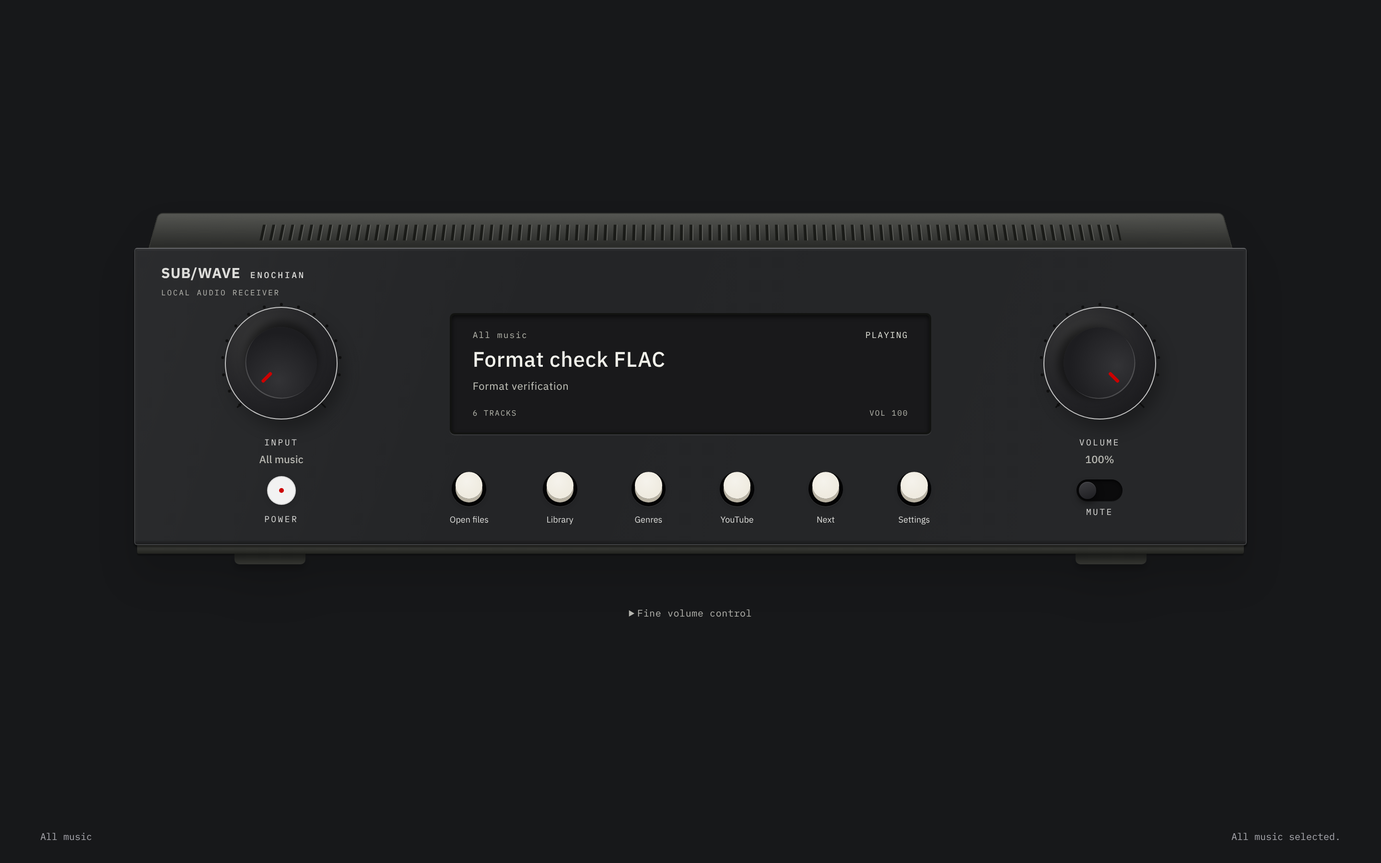
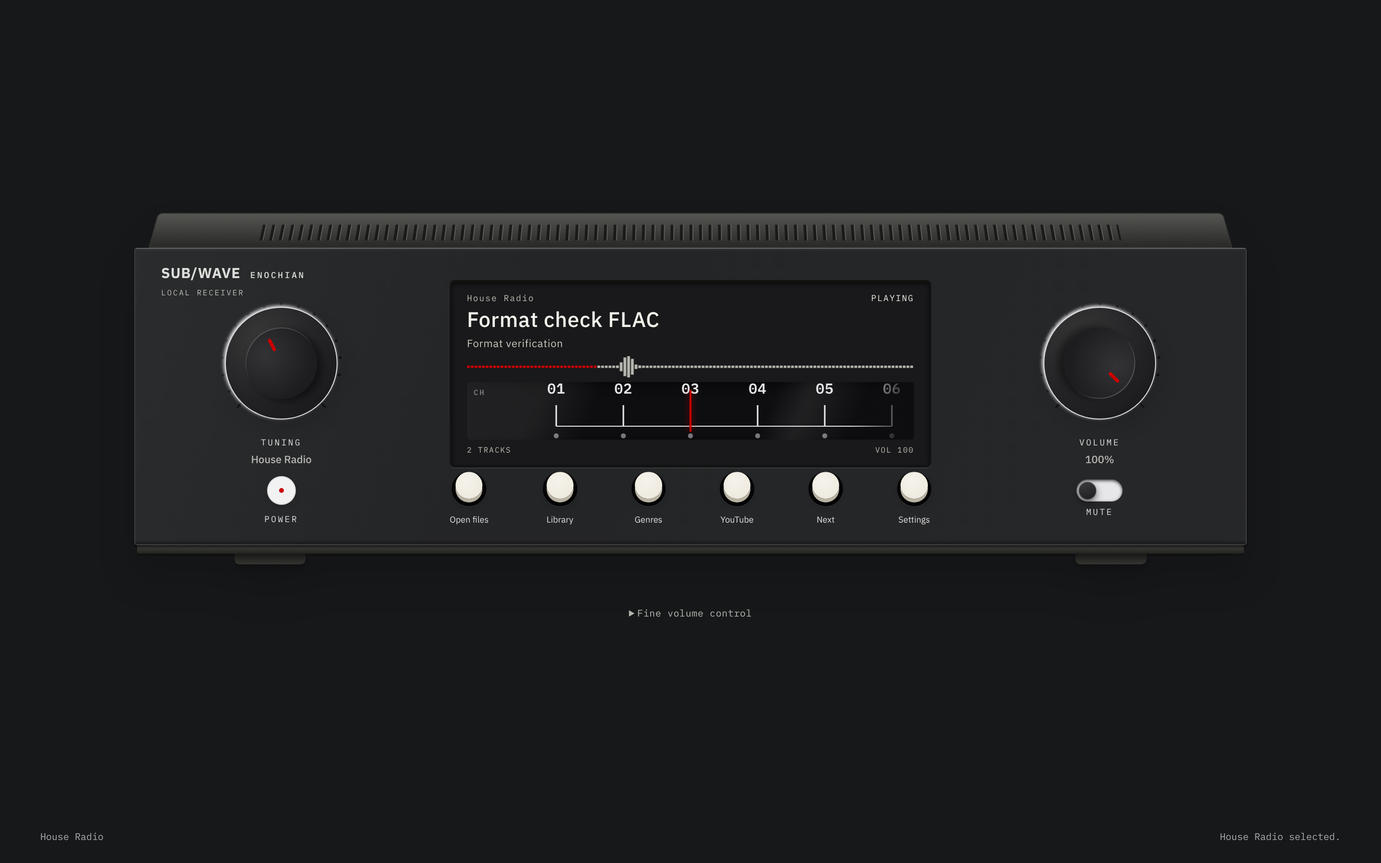
Add authored channel tuning and receiver visualization
Use the Enochian Aperture Scale for real local genre and playlist selection, with release-to-tune, glide, cancellation and keyboard seeking. Mount Original's existing spectrum analyser/painter inside the receiver screen while retaining one audio element across skins. Package Linux 1.3.1 and update the owner manual, source mapping and screenshots.

diff --git a/web/components/skins/enochian/DesktopReceiver.module.css b/web/components/skins/enochian/DesktopReceiver.module.css
@@ -21,13 +21,14 @@
 .dialLabel > span,.power > span,.mute > span { font:9px "IBM Plex Mono",monospace; letter-spacing:1.7px; }
 .dialLabel strong { font:500 11px "IBM Plex Sans",sans-serif; overflow:hidden; text-overflow:ellipsis; white-space:nowrap; max-width:180px; color:var(--quiet); }
 .screen { grid-column:2; grid-row:1; min-width:0; width:82%; justify-self:center; padding:0 0 15px; }
-.screen :global(.mk-display) { min-height:124px; margin:0; padding:15px 22px; border-radius:5px; border:2px solid #121311; background:#19191b; box-shadow:inset 0 2px 5px #0009,0 1px 0 #fff; display:flex; flex-direction:column; justify-content:center; gap:7px; white-space:normal; }
+.screen :global(.mk-display) { min-height:180px; margin:0; padding:11px 16px; border-radius:5px; border:2px solid #121311; background:#19191b; box-shadow:inset 0 2px 5px #0009,0 1px 0 #fff; display:flex; flex-direction:column; justify-content:center; gap:4px; white-space:normal; }
 .displayTop,.displayBottom { display:flex; justify-content:space-between; gap:18px; font:9px "IBM Plex Mono",monospace; letter-spacing:1px; color:#b7b8ae; line-height:1.3; }
 .displayTop > span:first-child { overflow:hidden; text-overflow:ellipsis; white-space:nowrap; }
 .displayTop > span:last-child { flex-shrink:0; color:#e1e2d9; }
 .trackTitle { display:block; font:500 clamp(16px,1.6vw,22px)/1.2 "IBM Plex Sans",sans-serif; color:#f2f2eb; white-space:nowrap; overflow:hidden; text-overflow:ellipsis; }
 .artist { display:block; font:11px/1.4 "IBM Plex Sans",sans-serif; color:#c5c6bd; white-space:nowrap; overflow:hidden; text-overflow:ellipsis; }
-.displayBottom { margin-top:8px; font-size:8px; }
+.displayBottom { margin-top:2px; font-size:8px; }
+.spectrum { --color-ink:#b7b8ae; --color-vermilion:var(--accent); width:100%; height:24px; flex-shrink:0; pointer-events:none; }
 .power,.mute { display:flex; flex-direction:column; align-items:center; justify-content:center; gap:5px; min-width:0; }
 .power { grid-column:1;grid-row:2; }.mute { grid-column:3;grid-row:2; }
 /* The atlas power head is mounted without its demo readout or separate case. */
@@ -56,16 +57,16 @@
 .room[data-enochian-receiver="obsidian"] .faceplate { border-top-color:#646568; box-shadow:inset 0 0 0 2px #ffffff08,inset 0 -2px 2px #0008,0 2px 2px #0009; background:linear-gradient(110deg,#ffffff08,transparent 35%,#ffffff03),var(--face); }
 .room[data-enochian-receiver="obsidian"] .screen :global(.mk-display) { box-shadow:inset 0 2px 5px #0009,0 1px 0 #ffffff18; }
 @media(max-width:950px) {
-  .room { padding:48px 24px 80px; }.faceplate { height:280px; grid-template-columns:20% minmax(0,1fr) 20%; padding:48px 20px 14px; }
+  .room { padding:48px 24px 80px; }.faceplate { height:310px; grid-template-columns:20% minmax(0,1fr) 20%; padding:48px 20px 14px; }
   .dialMount { width:110px; height:110px; }.dialMount :global(.dial) { zoom:.5; }
-  .screen { width:94%; padding:0 0 5px; }.functionKeys { width:94%; }.screen :global(.mk-display) { padding:12px 14px; }.displayTop { font-size:8px; letter-spacing:.3px; gap:8px; }
+  .screen { width:94%; padding:0 0 5px; }.functionKeys { width:94%; }.screen :global(.mk-display) { padding:10px 12px; }.displayTop { font-size:8px; letter-spacing:.3px; gap:8px; }
   .functionKeys :global(.ilk-col) { gap:5px; }.functionKeys :global(.ilk-lbl) { font-size:8px; }.functionKeys :global(.ilk-sock) { zoom:.72; }
   .identity small { font-size:7px; }.identity strong { font-size:13px; }.identity span { font-size:8px; }
 }
 @media(max-width:700px) {
-  .room { padding:35px 14px 70px; }.faceplate { height:300px; padding:60px 14px 16px; grid-template-columns:100px minmax(0,1fr) 100px; grid-template-rows:140px 1fr; }
+  .room { padding:35px 14px 70px; }.faceplate { height:330px; padding:55px 14px 16px; grid-template-columns:100px minmax(0,1fr) 100px; grid-template-rows:175px 1fr; }
   .dialMount { width:88px; height:88px; }.dialMount :global(.dial) { zoom:.4; }
-  .screen { width:100%; padding:0 8px 8px; }.screen :global(.mk-display) { min-height:115px; padding:11px; gap:6px; }.artist { font-size:10px; }
+  .screen { width:100%; padding:0 8px 8px; }.screen :global(.mk-display) { min-height:170px; padding:9px; gap:3px; }.artist { font-size:10px; }
   .identity { left:20px; }.cabinet { height:27px; }.trackTitle { font-size:16px; }.displayTop,.displayBottom { font-size:7px; letter-spacing:0; }.displayTop { flex-direction:column; gap:4px; }
   .functionKeys { grid-column:1 / -1; grid-row:2; width:100%; padding:0 52px; align-self:end; }.functionKeys :global(.ilk-col) { gap:8px; }
   .power,.mute { grid-row:2; align-self:start; }.power { justify-self:start; }.mute { justify-self:end; }

diff --git a/web/components/skins/enochian/DesktopReceiver.tsx b/web/components/skins/enochian/DesktopReceiver.tsx
@@ -3,6 +3,9 @@
 // The JBL reference defines the enclosure and hierarchy, not replacement
 // controls. All tactile parts below are the user's actual atlas adapters.
 import { useLayoutEffect, useState } from 'react';
+import { usePlayerAudio, usePlayerFeed } from '@/components/player/PlayerCore';
+import Waveform from '../classic/Waveform';
+import SourceTuner from './SourceTuner';
 import type { DesktopSurfaceContext } from '@/components/desktop/DesktopContext';
 import VolumeDial from './VolumeDial';
 import { SourceDisplay, SourceMute, SourceSlider, type Finish } from './SourceControls';
@@ -17,6 +20,8 @@ type Props = {
 };
 
 export default function DesktopReceiver({ desktop, finish, title, artist, tunedIn, phaseLabel, volume, muted, onPower, onVolume, onMute, feedback }: Props) {
+  const { audioRef } = usePlayerAudio();
+  const { trackStartedAt, nowPlaying } = usePlayerFeed();
   const library = desktop.library.data;
   const sources = [...(library?.stations || []), ...(library?.playlists || [])];
   const selectedIndex = Math.max(0, sources.findIndex(source => source.id === library?.selected));
@@ -36,17 +41,20 @@ export default function DesktopReceiver({ desktop, finish, title, artist, tunedI
     <div className={styles.receiver} aria-label="Enochian audio receiver">
       <div className={styles.cabinet} aria-hidden="true"><div className={styles.vents} /></div>
       <div className={styles.faceplate}>
-        <header className={styles.identity}><strong>SUB/WAVE</strong><span>ENOCHIAN</span><small>LOCAL AUDIO RECEIVER</small></header>
+        <header className={styles.identity}><strong>SUB/WAVE</strong><span>ENOCHIAN</span><small>LOCAL RECEIVER</small></header>
         <section className={styles.input} aria-label="Input source">
           <div className={styles.dialMount}><VolumeDial label="Input source knob" value={input} steps={Math.max(2, sources.length)} valueText={value => sourceAt(value)?.name || 'Opening library'} onChange={setInput} onCommit={selectInput} disabled={desktop.busy || sources.length < 2} finish={finish} /></div>
-          <div className={styles.dialLabel}><span>INPUT</span><strong title={sourceAt(input)?.name}>{sourceAt(input)?.name || 'Opening library'}</strong></div>
+          <div className={styles.dialLabel}><span>TUNING</span><strong title={sourceAt(input)?.name}>{sourceAt(input)?.name || 'Opening library'}</strong></div>
         </section>
         <section className={styles.screen} aria-label="Now playing">
           <SourceDisplay>
             <span className={styles.displayTop}><span>{selected?.name || 'LOCAL MUSIC'}</span><span role="status">{phaseLabel}</span></span>
             <strong className={styles.trackTitle} title={title || undefined}>{title || (empty ? 'No tracks in this source' : 'Ready to play')}</strong>
             <span className={styles.artist} title={artist || undefined}>{artist || (empty ? 'Open files or find music on YouTube' : 'Press power to listen')}</span>
-            <span className={styles.displayBottom}><span>{library?.tracks.length ?? 0} TRACKS</span><span>{muted ? 'MUTED' : `VOL ${Math.round(volume * 100)}`}</span></span>
+            <Waveform audioRef={audioRef} tunedIn={tunedIn} trackStartedAt={trackStartedAt} duration={nowPlaying?.duration || 0} presentation="receiver" className={styles.spectrum} />
+            <SourceTuner channels={sources} value={Math.round(input * max)} disabled={desktop.busy || sources.length < 2}
+              onPreview={index => setInput(index / max)} onCommit={index => { feedback('thock'); selectInput(index / max); }} />
+            <span className={styles.displayBottom}><span>{library?.tracks.length ?? 0} {library?.tracks.length === 1 ? 'TRACK' : 'TRACKS'}</span><span>{muted ? 'MUTED' : `VOL ${Math.round(volume * 100)}`}</span></span>
           </SourceDisplay>
         </section>
         <section className={styles.volume} aria-label="Volume controls">

diff --git a/web/components/skins/enochian/SourceTuner.tsx b/web/components/skins/enochian/SourceTuner.tsx
@@ -1,0 +1,46 @@
+'use client';
+
+import { useLayoutEffect, useRef } from 'react';
+import { useSkinCalm } from '../sharedHooks';
+import { atlas as a } from './vendor/classes';
+import { CHANNEL_MARGIN, CHANNEL_PITCH, driveTuner } from './vendor/tuner-interaction';
+import type { ValueControl } from './vendor/interaction';
+import styles from './SourceTuner.module.css';
+
+type Channel = { id: string; name: string };
+export default function SourceTuner({ channels, value, disabled, onPreview, onCommit }: {
+  channels: Channel[]; value: number; disabled?: boolean; onPreview: (index: number) => void; onCommit: (index: number) => void;
+}) {
+  const root = useRef<HTMLDivElement>(null), strip = useRef<HTMLDivElement>(null), control = useRef<ValueControl | null>(null);
+  const current = useRef({ value, channels, onPreview, onCommit });
+  const calm = useSkinCalm();
+  const count = channels.length;
+  useLayoutEffect(() => { current.current = { value, channels, onPreview, onCommit }; }, [value, channels, onPreview, onCommit]);
+  useLayoutEffect(() => {
+    const c = driveTuner(root.current!, strip.current!, current.current.value, count,
+      index => current.current.onPreview(index), index => current.current.onCommit(index),
+      index => `Channel ${index + 1}, ${current.current.channels[index]?.name || 'No station'}`, calm);
+    control.current = c;
+    return () => { c.destroy(); control.current = null; };
+  }, [count, calm]);
+  useLayoutEffect(() => { control.current?.set(value); }, [value, calm]);
+  const width = Math.max(1, count - 1) * CHANNEL_PITCH + CHANNEL_MARGIN * 2;
+  return <div className={styles.mount}><div className={a.instruments}>
+    <div className={a.tuner} data-finish="obsidian" data-enochian-component="radio-tuner">
+      <div ref={root} className={a.tunerWindow} role="slider" tabIndex={disabled ? -1 : 0} aria-disabled={disabled || undefined}
+        title="Drag left/right to tune · Arrow keys: one channel · Page Up/Down: seek · Home/End: first/last" aria-label="Radio channel tuning" aria-valuemin={1} aria-valuemax={Math.max(1, count)} aria-valuenow={Math.round(value) + 1}
+        aria-valuetext={`Channel ${Math.round(value) + 1}, ${channels[Math.round(value)]?.name || 'No station'}`}>
+        <div ref={strip} className={a.tunerStrip}><svg width={width} height={128} viewBox={`0 0 ${width} 128`} aria-hidden="true">
+          <line x1={CHANNEL_MARGIN} y1={98} x2={CHANNEL_MARGIN + Math.max(0, count - 1) * CHANNEL_PITCH} y2={98} className={a.tunerTick} strokeWidth={1} />
+          {channels.map((channel, index) => {
+            const x = CHANNEL_MARGIN + index * CHANNEL_PITCH;
+            return <g key={channel.id}><line x1={x} y1={76} x2={x} y2={98} className={a.tunerTick} strokeWidth={1.6} />
+              <text x={x} y={64} textAnchor="middle" className={a.tunerNumber}>{String(index + 1).padStart(2, '0')}</text>
+              <circle cx={x} cy={108} r={2.6} className={a.tunerStation} /></g>;
+          })}
+        </svg></div>
+        <div className={a.tunerFade} /><div className={a.tunerGlass} /><span className={a.tunerBand}>CH</span><div className={a.tunerNeedle} />
+      </div>
+    </div>
+  </div></div>;
+}

diff --git a/web/components/skins/classic/Waveform.tsx b/web/components/skins/classic/Waveform.tsx
@@ -76,6 +76,9 @@ function buildBinRanges(binCount: number, sampleRate: number): Array<[number, nu
 
 export interface WaveformProps {
   audioRef: RefObject<HTMLAudioElement | null>;
+  /** Receiver screen reuses this exact analyser/painter in a compact mount. */
+  presentation?: 'classic' | 'receiver';
+  className?: string;
   tunedIn: boolean;
   /** Epoch ms when the current track started (from useStationFeed). */
   trackStartedAt: number | null;
@@ -85,7 +88,7 @@ export interface WaveformProps {
 
 // One canvas paint per frame rather than 120 styled spans: ~0.25 ms/frame
 // against ~2.8 ms, which is what lets the strip run on Pi-class devices.
-export default memo(function Waveform({ audioRef, tunedIn, trackStartedAt, duration }: WaveformProps) {
+export default memo(function Waveform({ audioRef, tunedIn, trackStartedAt, duration, presentation = 'classic', className }: WaveformProps) {
   const { ready, read, sampleRate } = useAnalyser(audioRef, tunedIn);
   const canvasRef = useRef<HTMLCanvasElement | null>(null);
   const levelsRef = useRef<Float32Array>(new Float32Array(BARS));
@@ -272,11 +275,12 @@ export default memo(function Waveform({ audioRef, tunedIn, trackStartedAt, durat
 
   return (
     <div
-      data-local-waveform={DESKTOP_EDITION ? true : undefined}
+      data-local-waveform={DESKTOP_EDITION && presentation === 'classic' ? true : undefined}
+      data-receiver-waveform={presentation === 'receiver' ? true : undefined}
       // The band's vertical shape is gated on viewport HEIGHT as well as width
       // (#576). The two wide variants use mutually exclusive height queries so
       // neither depends on class order to win.
-      className="pointer-events-none absolute inset-x-3 bottom-24 h-[110px] px-1 opacity-[0.34] sm:right-24 sm:left-0 sm:px-8 dark:opacity-[0.45] [@media(min-width:640px)_and_(max-height:759px)]:bottom-32 [@media(min-width:640px)_and_(max-height:759px)]:h-20 [@media(min-width:640px)_and_(min-height:760px)]:bottom-[128px] [@media(min-width:640px)_and_(min-height:760px)]:h-40"
+      className={presentation === 'receiver' ? className : "pointer-events-none absolute inset-x-3 bottom-24 h-[110px] px-1 opacity-[0.34] sm:right-24 sm:left-0 sm:px-8 dark:opacity-[0.45] [@media(min-width:640px)_and_(max-height:759px)]:bottom-32 [@media(min-width:640px)_and_(max-height:759px)]:h-20 [@media(min-width:640px)_and_(min-height:760px)]:bottom-[128px] [@media(min-width:640px)_and_(min-height:760px)]:h-40"}
       aria-hidden="true"
     >
       <canvas ref={canvasRef} className="h-full w-full" />

diff --git a/web/components/skins/enochian/SourceTuner.module.css b/web/components/skins/enochian/SourceTuner.module.css
@@ -1,0 +1,11 @@
+/* Original Aperture Scale parts/materials. The screen mount crops unused space
+   above the printed scale; tick lengths, type and the fixed needle stay intact. */
+.mount { min-width:0; width:100%; }
+.mount :global(.source) { display:contents; }
+.mount :global(.ap) { width:100%; gap:0; }
+.mount :global(.ap-window) { height:60px; border-radius:3px; box-shadow:inset 0 3px 10px #0008; }
+.mount :global(.ap-strip) { top:-52px; }
+.mount :global(.ap-strip svg) { height:128px; max-width:none; }
+.mount :global(.ap-band) { top:6px; left:7px; font-size:8px; }
+.mount :global(.ap-window:focus-visible) { outline-offset:2px; }
+.mount :global([aria-disabled="true"]) { opacity:.5; cursor:default; }

diff --git a/owners_manual.md b/owners_manual.md
@@ -1,6 +1,6 @@
 # Subwave owner’s manual
 
-**Linux desktop edition · version 1.3.0 · Original + Enochian**
+**Linux desktop edition · version 1.3.1 · Original + Enochian**
 
 Subwave plays music saved on your computer. It also searches YouTube, downloads MP3s and organizes them into separate genre radio stations. Your local station starts with the app. You do not need an admin login or a separately configured server.
 
@@ -55,7 +55,7 @@ Original uses a top toolbar. Enochian puts the same actions on six small front-p
 
 **Player** opens the same areas and provides playback commands. **Skin** selects Original or Enochian. **View** controls zoom and fullscreen. **Help** opens your music folder, desktop log and version information.
 
-The selected playback collection appears in the status bar and, in Enochian, beside the **INPUT** knob and on the receiver display. Turn the left knob by dragging vertically; the source changes when you release it. With the knob focused, arrow keys select the next/previous station or playlist, Home selects the first and End selects the last. Empty collections stay selectable so you can add music to them. Choosing an **import destination** controls where files are added; it does not switch what is playing.
+The selected playback collection appears in the status bar and, in Enochian, beside the **TUNING** knob and on the receiver display. Turn the left knob by dragging vertically; the source changes when you release it. With the knob focused, arrow keys select the next/previous station or playlist, Home selects the first and End selects the last. Empty collections stay selectable so you can add music to them. Choosing an **import destination** controls where files are added; it does not switch what is playing.
 
 ## Open and find local files
 
@@ -92,6 +92,16 @@ The desktop uses a continuous local radio stream. It does not expose a seek/scru
 In Enochian, drag the right **VOLUME** knob up/down. Open **Fine volume control** below the receiver to reveal the original ribbed slider. Both control the same gain. Focus the knob and use arrows for 2% steps; the slider offers 1% arrow steps and 10% Page Up/Down steps. Home/End select minimum/maximum. The mute switch silences output. In Original, use its volume control. **Ctrl+M** toggles mute in either skin. Skin changes preserve the intended volume and mute state.
 
 The display reports the current song and playback state. Empty stations explain how to add music. Brief connection and metadata delays can occur when joining or changing the local MP3 stream.
+
+### Tune channels and read the receiver display
+
+Enochian's left **TUNING** knob and the sliding channel scale inside its screen select the same genre stations and playlists. The channel number describes its position in your current collection list.
+
+Drag the scale left/right; the printed scale moves behind the fixed red needle. Release to settle on a channel. A quick fling glides into a channel stop. Drag cancellation leaves the selected source unchanged. With the scale focused, arrows move one channel, Shift+arrows move five, Home/End reach the first/last, and Page Up/Down seek with wrapping at the ends. The tuner updates when you select a station or playlist elsewhere, including through an agent.
+
+Tuning while listening switches to that collection and keeps music playing when it contains tracks. Tuning while stopped keeps playback stopped. An empty channel shows **NO TRACKS** and power opens Library so you can add music.
+
+The center screen also contains the **same spectrum visualization as Original**, driven by the current audio. The trace rests when playback stops. Reduced motion and Lite mode hold a resting trace while playback continues. Changing skins retains the same audio element and analyser, so visualization does not restart the song.
 
 ## Create and manage playlists
 
@@ -177,7 +187,7 @@ Requesting the same video reuses its download record. Failed items offer **Retry
 
 ## Appearance and window controls
 
-Choose **Skin → Original** or **Skin → Enochian**, or use **Settings → Player skin**. Original offers Light/Dark palettes; Enochian offers Ivory/Obsidian finishes. Use **Settings → Color palette** to select a finish. The appearance control beside the skin name also offers appearance options and **Lite mode**.
+Choose **Skin → Original** or **Skin → Enochian**, or use **Settings → Player skin**. Original offers Light/Dark palettes; Enochian offers Ivory/Obsidian finishes. Use **Settings → Color palette** to select a finish. Original’s appearance control beside the skin name also offers **Lite mode**, which applies across skins.
 
 Changing skins preserves the shared player and music organization. Appearance and window size are saved. Lite mode reduces optional effects; controls also honor the system’s reduced-motion preference.
 
@@ -204,7 +214,7 @@ Shortcuts apply while Subwave is the active application.
 | Close local panel | Esc |
 | Quit | Ctrl+Q |
 
-Use **Tab / Shift+Tab** to move between controls, **Enter** to submit forms and **Space** to activate focused buttons/switches. In the genre selector, arrows move between exclusive choices and **Home / End** choose first/last. Focus the Enochian knob or slider to use arrows for volume; **Home / End** set minimum/maximum. The slider also supports **Page Up / Page Down** for larger steps.
+Use **Tab / Shift+Tab** to move between controls, **Enter** to submit forms and **Space** to activate focused buttons/switches. In the genre selector, arrows move between exclusive choices and **Home / End** choose first/last. Focus Enochian’s **VOLUME** knob or fine-volume slider to use arrows for volume; **Home / End** set minimum/maximum. The slider also supports **Page Up / Page Down** for larger steps.
 
 ## Let Aya or Hermes control Subwave
 

diff --git a/docs/enochian-design.md b/docs/enochian-design.md
@@ -22,6 +22,7 @@ The supplied hero cards inform two separate frozen [receiver rubrics](design/eno
 | Atlas component | Station use | Preserved source |
 | --- | --- | --- |
 | Rotary Knob 01 (`#darkDial`) | Left input and right volume in the Linux receiver; hosted volume | 220px dial, original dot/end ticks, base, cap and dash; ±135° rotation, 150px drag travel, 2% arrow increments |
+| Radio Tuner (`#ap`) | Tune actual local genre/playlist channels inside the receiver display | Original tick lengths/type, sliding strip, glass/fades, fixed needle, SNAP spring and 3.2/s glide friction; actual collection stops replace demo frequencies |
 | Slider 01 (`#trk`) | Same volume | 280px track, 66×34px thumb and five ribs; original spring, grab offset, 1% arrows and 10% Page keys |
 | Keyboard display (`#keyboardDisplay`) | Live title and artist | Original inset surface; compact aperture and text hierarchy adapt for the receiver |
 | Radio Player power head (`#radio .rhead`) | Tune in/out and connection status | Original 30px white power ring and 5px state dot; local mount removes demo readout and adapts hit area |
@@ -87,3 +88,15 @@ geometry and the adapted spring's settling/cleanup. Browser checks compare
 computed gradients, shadows, dimensions, borders, padding and typography against
 the live source, then exercise the linked volume controls, mute, power and
 drawers at desktop and mobile widths.
+
+## Channel tuning and Original visualization (1.3.1)
+
+The authored **Enochian Radio Tuner / Aperture Scale** is now mounted inside the receiver display using its original `ap` / `ap-window` / `ap-strip` / glass, fades and fixed-needle parts. The printed tick lengths, numeral typography, station dots, SNAP spring and 3.2-per-second glide friction come from the source snapshot. The compact viewport crops unused space above the printed scale; it does not replace the scale with a generic range control. Actual collection indices and names replace the atlas demo frequencies. These channels select real genre stations and playlists through the existing playback owner.
+
+`SourceTuner.tsx`, its mounting CSS and `vendor/tuner-interaction.ts` adapt source geometry to live collections. Pointer drag previews; release/glide settling commits once. Cancellation and unmount commit nothing. Arrows/Home/End and wrapping Page Up/Down support keyboard tuning. Pending operations disable tuning, and selecting a collection elsewhere updates the scale without issuing duplicate backend commands. The left knob remains another input to the same selection.
+
+`classic/Waveform.tsx` now accepts a compact receiver presentation while keeping its Original presentation and painter unchanged. The receiver uses the same 120 logarithmic frequency bars, real `useAnalyser` data, progress colors and motion gates. It reads the shell's existing audio ref; `ELEMENT_GRAPHS` reuses the graph across skin changes. Desktop builds retain the existing prohibition on synthetic fallback bars. Receiver canvas colors are inherited from screen-mounted CSS variables rather than following the light faceplate's black text.
+
+Native verification distinguishes resting, playing and reduced-motion traces by actual painted signal extent. Keyboard and pointer tuning are checked against the real selected-source API; the existing native import, playback, panel, two-skin and zoom regressions remain required. The 1.3.0 visual rubric assessment is historical; this extension has separate interaction and layout evidence in the workspace QA folder.
+
+Final 1.3.1 verification: 646 interface tests, lint/type checks and native packaging pass. Both skins/five main areas pass 40 window/zoom cases; both receiver finishes pass eight further cases, including the tuner’s visible bounds. Actual 48-pixel-high spectrum captures contain six painted rows at rest and 38–42 while playing a real fixture; reduced motion and Stop restore six rows. Stop during a moving tuner glide remains stopped after the selection settles. Native agent regression discovers 21 tools and proves agent-started playback drives the real spectrum without a UI gesture. Live YouTube search/download/genre-add/playback and cold reconnection also pass. OS file-dialog return values in native import/export checks are test-controlled; playback, analyser, files, worker and IPC are real.

diff --git a/README.md b/README.md
@@ -12,7 +12,7 @@ This desktop edition is developed from [perminder-klair/subwave](https://github.
 
 ### Enochian
 
-The authored [Enochian Elements](https://uiux-nonhumanintelligence.web.app/UIUX) controls run from their source code: rotary knob, ribbed slider, inset display, AV receiver power control, switches, Input Selector keys and rolling search control. Layout and scale adapt to the app while preserving the controls’ materials, geometry and interaction behavior. The Linux player mounts these parts on one wide receiver chassis: input knob on the left, compact central display, volume on the right and small function keys below. The left knob selects actual genre stations and playlists; the ribbed fine-volume slider opens below the receiver. Ivory and Obsidian are finishes of the same skin.
+The authored [Enochian Elements](https://uiux-nonhumanintelligence.web.app/UIUX) controls run from their source code: rotary knob, ribbed slider, inset display, AV receiver power control, switches, Input Selector keys and rolling search control. Layout and scale adapt to the app while preserving the controls’ materials, geometry and interaction behavior. The Linux player mounts these parts on one wide receiver chassis: input knob on the left, compact central display, volume on the right and small function keys below. The left knob and authored sliding Radio Tuner select actual genre stations and playlists. The center screen also carries the Original skin’s audio-reactive spectrum; the ribbed fine-volume slider opens below the receiver. Ivory and Obsidian are finishes of the same skin.
 
 Receiver-specific design criteria: [Ryo Lu inspired rubric](docs/design/enochian-receiver-ryo-rubric.md), [Andy Allen inspired rubric](docs/design/enochian-receiver-andy-rubric.md) and [evaluation](docs/design/enochian-receiver-evaluation.md). Each rubric has twenty criteria with five explicit levels, grounded in the supplied JBL receiver references. They are project interpretations, not personal designer endorsements.
 
@@ -36,6 +36,8 @@ These are installed-app captures using an isolated test library. Changing skins 
 | Supported imports | MP3, FLAC, WAV, M4A and OGG are verified. The chooser also accepts Opus and AAC. Up to 50 files per import, each no larger than 250 MiB. |
 | Library | Search title, artist or genre; filter collections; refresh after file changes. |
 | Playlists | Create, rename, add/remove tracks, reorder, play in saved order, delete and restore. Playlists repeat after the last track. |
+| Receiver tuning | Authored sliding channel scale and left knob, with real genre/playlist selection, release-to-tune and keyboard seeking. |
+| Visualization | Original’s logarithmic spectrum in the receiver screen, driven by real audio; reduced motion and continuous playback across skins. |
 | Genre radio | Independent genre collections. Choose what plays or copy a track to another genre while keeping its original. |
 | YouTube | Search by song/artist or paste an individual video URL. Download real MP3s with visible job states and retry. |
 | Genre sorting | Match video tags, title and description to genre rules. Unclear matches wait for a manual destination. |

diff --git a/docs/design/enochian-receiver-evaluation.md b/docs/design/enochian-receiver-evaluation.md
@@ -112,3 +112,7 @@ The receiver flow under test is `/listen` → select an actual source with the i
 Main source commands: `npm --prefix web run lint`, `npm --prefix web test`, `npm --prefix desktop run lint`, `npm --prefix desktop test`, `npm --prefix desktop run pack`. Private native regression scripts and logs remain in the workspace QA folder rather than being shipped as production features. No telemetry or new analytics was added.
 
 The README includes a clean installed-app screenshot. Additional window/finish evidence is linked from the local build board. Source rubrics remain at version 1.0 with unchanged anchors.
+
+## Follow-on: tuning and visualization, 1.3.1 (2026-11-06)
+
+The numerical design assessment above records 1.3.0. Version 1.3.1 adds the authored Radio Tuner and reuses Original's actual spectrum painter inside the receiver screen. New channel-selection, release/glide, Stop, motion-preference, skin-switch and native-agent checks have separate evidence. The README screenshots now show 1.3.1. The frozen rubric anchors and historical scores are unchanged; no new visual score is inferred from the extra passing tests.
